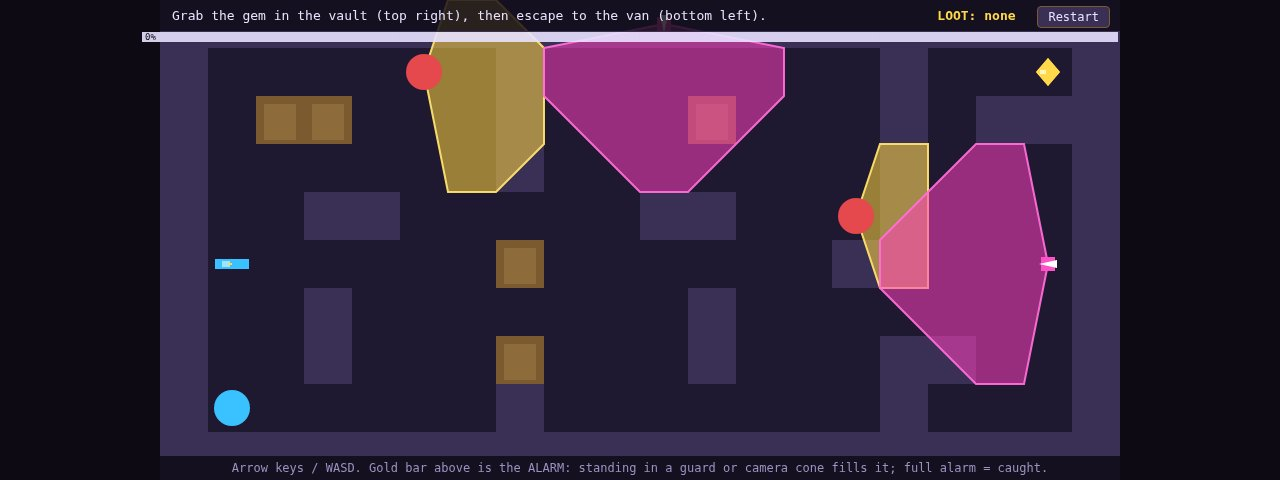
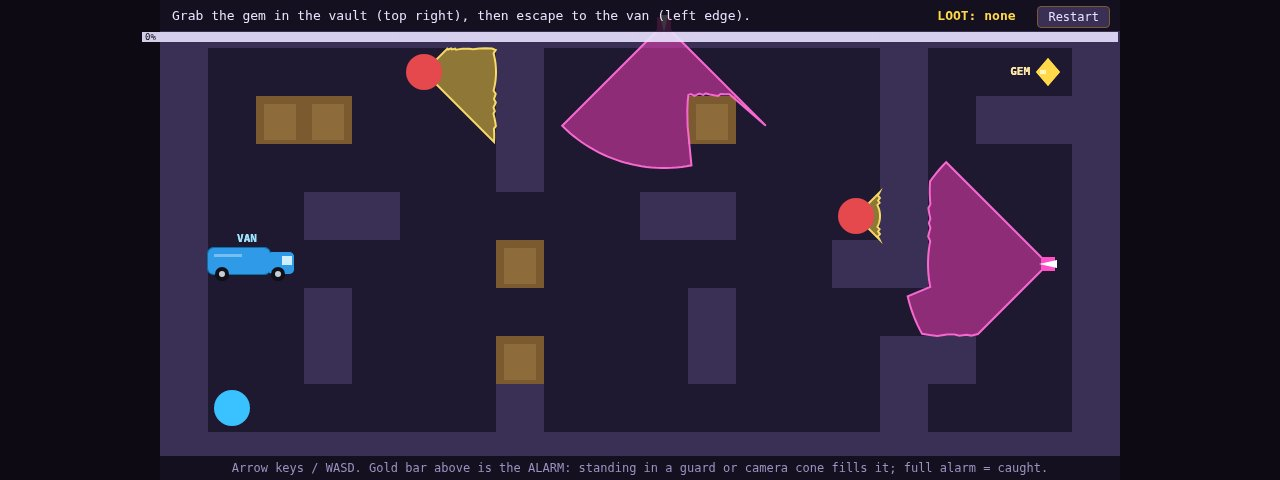
Heist entry: true raycast vision-cone sectors, van silhouette, gem pickup hides gem

diff --git a/game/game.js b/game/game.js
@@ -78,7 +78,7 @@ function reset(keepStatus) {
     guards[0].idx = 0; guards[0].dir = 'right';
     guards[1].x = guards[1].wx[0]; guards[1].y = guards[1].wy[0];
     guards[1].idx = 0; guards[1].dir = 'right';
-    if (!keepStatus) statusText = 'Grab the gem in the vault (top right), then escape to the van (bottom left).';
+    if (!keepStatus) statusText = 'Grab the gem in the vault (top right), then escape to the van (left edge).';
   }
   function init() { reset(false); buildTicks(); }
   function buildTicks() {
@@ -128,10 +128,10 @@ function reset(keepStatus) {
   function allCones() {
     var cones = [];
     for (var i = 0; i < guards.length; i++) {
-      cones.push({ kind: 'guard', x: guards[i].x, y: guards[i].y, tiles: coneOf(guards[i].x, guards[i].y, guards[i].dir) });
+      cones.push({ kind: 'guard', x: guards[i].x, y: guards[i].y, dir: guards[i].dir, tiles: coneOf(guards[i].x, guards[i].y, guards[i].dir) });
     }
     for (var j = 0; j < cams.length; j++) {
-      cones.push({ kind: 'camera', x: cams[j].x, y: cams[j].y, tiles: coneOf(cams[j].x, cams[j].y, camDir(cams[j])) });
+      cones.push({ kind: 'camera', x: cams[j].x, y: cams[j].y, dir: camDir(cams[j]), tiles: coneOf(cams[j].x, cams[j].y, camDir(cams[j])) });
     }
     return cones;
   }
@@ -179,9 +179,9 @@ function reset(keepStatus) {
       statusText = 'Heist complete.';
       lootEl.textContent = 'LOOT: GEM';
     } else if (player.hasGem) {
-      statusText = 'Gem taken! Now get to the van (blue, bottom left).';
+      statusText = 'Gem taken! Now get to the van (blue, left edge).';
     } else {
-statusText = 'Grab the gem in the vault (top right), then escape to the van (bottom left).';
+statusText = 'Grab the gem in the vault (top right), then escape to the van (left edge).';
     }
     draw();
   }
@@ -207,52 +207,45 @@ statusText = 'Grab the gem in the vault (top right), then escape to the van (bot
     return false;
   }
 
-  // Vision-cone fan: one bright polygon per watcher, built from the convex
-  // hull of its detection tiles plus the watcher centre (the fan vertex).
+  // Vision-cone fan: one true sector per watcher, built by raycasting.
+  // Each ray starts at the watcher centre, runs along the facing
+  // direction +/-45 degrees (90 degrees total, same as detection),
+  // and stops at the 3-tile detection radius or at the first wall /
+  // crate tile (blocksLOS). Ray endpoints joined in order give a
+  // sector whose outer edge is a natural arc (2-degree steps).
   // Detection logic (coneOf) is untouched; only the rendering changes.
-  function hullPoints(pts) {
-    var p = pts.slice();
-    p.sort(function (a, b) { return a.x !== b.x ? a.x - b.x : a.y - b.y; });
-    var uniq = [];
-    for (var i = 0; i < p.length; i++) {
-      if (i && p[i].x === p[i - 1].x && p[i].y === p[i - 1].y) continue;
-      uniq.push(p[i]);
+  function dirAngle(dir) {
+    if (dir === 'right') return 0;
+    if (dir === 'down') return Math.PI / 2;
+    if (dir === 'left') return Math.PI;
+    return -Math.PI / 2;
+  }
+  function rayEnd(cx, cy, ang, wx, wy) {
+    var R = 3 * TILE, STEP = 3;
+    var dx = Math.cos(ang), dy = Math.sin(ang);
+    var px = cx, py = cy, t;
+    for (t = STEP; t <= R; t += STEP) {
+      var nx = cx + dx * t, ny = cy + dy * t;
+      var tx = Math.floor(nx / TILE), ty = Math.floor(ny / TILE);
+      if (tx < 0 || ty < 0 || tx >= W || ty >= H) break;
+      if ((tx !== wx || ty !== wy) && blocksLOS(tx, ty)) break;
+      px = nx; py = ny;
     }
-    if (uniq.length < 3) return uniq;
-    function cross(o, a, b) { return (a.x - o.x) * (b.y - o.y) - (a.y - o.y) * (b.x - o.x); }
-    var lower = [];
-    for (var j = 0; j < uniq.length; j++) {
-      while (lower.length >= 2 && cross(lower[lower.length - 2], lower[lower.length - 1], uniq[j]) <= 0) lower.pop();
-      lower.push(uniq[j]);
-    }
-    var upper = [];
-    for (var k = uniq.length - 1; k >= 0; k--) {
-      while (upper.length >= 2 && cross(upper[upper.length - 2], upper[upper.length - 1], uniq[k]) <= 0) upper.pop();
-      upper.push(uniq[k]);
-    }
-    lower.pop();
-    upper.pop();
-    return lower.concat(upper);
+    return { x: px, y: py };
   }
   function drawConeFan(cn) {
-    var pts = [{ x: cn.x * TILE + TILE / 2, y: cn.y * TILE + TILE / 2 }];
-    for (var k in cn.tiles) {
-      if (!cn.tiles.hasOwnProperty(k)) continue;
-      var p = k.split(',');
-      var tx = parseInt(p[0], 10) * TILE, ty = parseInt(p[1], 10) * TILE;
-      pts.push({ x: tx, y: ty });
-      pts.push({ x: tx + TILE, y: ty });
-      pts.push({ x: tx, y: ty + TILE });
-      pts.push({ x: tx + TILE, y: ty + TILE });
-    }
-    var hull = hullPoints(pts);
-    if (hull.length < 3) return;
+    var cx = cn.x * TILE + TILE / 2, cy = cn.y * TILE + TILE / 2;
+    var base = dirAngle(cn.dir);
     var guard = cn.kind === 'guard';
     CX.beginPath();
-    CX.moveTo(hull[0].x, hull[0].y);
-    for (var i = 1; i < hull.length; i++) CX.lineTo(hull[i].x, hull[i].y);
+    CX.moveTo(cx, cy);
+    var a;
+    for (a = -45; a <= 45; a += 2) {
+      var p = rayEnd(cx, cy, base + a * Math.PI / 180, cn.x, cn.y);
+      CX.lineTo(p.x, p.y);
+    }
     CX.closePath();
-    CX.fillStyle = guard ? 'rgba(255,214,64,0.55)' : 'rgba(255,64,190,0.55)';
+    CX.fillStyle = guard ? 'rgba(255,214,64,0.5)' : 'rgba(255,64,190,0.5)';
     CX.fill();
     CX.lineWidth = 2;
     CX.strokeStyle = guard ? 'rgba(255,226,110,0.95)' : 'rgba(255,110,215,0.95)';
@@ -273,9 +266,8 @@ statusText = 'Grab the gem in the vault (top right), then escape to the van (bot
         else if (c === 'V') { drawVan(x, y); }
       }
     }
-    // cones: one bright fan polygon per watcher (watcher centre = vertex),
-    // built from the convex hull of its detection tiles. Detection logic
-    // (coneOf) is untouched; only the rendering changes.
+    // cones: one true raycast sector per watcher (watcher centre = vertex).
+    // Detection logic (coneOf) is untouched; only the rendering changes.
     var cones = allCones();
     for (var ci = 0; ci < cones.length; ci++) drawConeFan(cones[ci]);
     // draw gem & van again on top (above cones)
@@ -335,6 +327,9 @@ statusText = 'Grab the gem in the vault (top right), then escape to the van (bot
   }
 
   function drawGem(x, y) {
+    // Picked up: the vault stays empty (gem reappears on caught reset,
+    // when applyAlarm/reset clears player.hasGem).
+    if (player.hasGem) return;
     var cx0 = x * TILE + TILE / 2, cy0 = y * TILE + TILE / 2;
     CX.fillStyle = '#ffd94a';
     CX.beginPath();
@@ -346,18 +341,61 @@ statusText = 'Grab the gem in the vault (top right), then escape to the van (bot
     CX.fill();
     CX.fillStyle = '#fff3c0';
     CX.fillRect(cx0 - 8, cy0 - 2, 6, 4);
+    CX.font = 'bold 11px monospace';
+    CX.textAlign = 'right';
+    CX.textBaseline = 'middle';
+    CX.fillStyle = '#ffe9a8';
+    CX.fillText('GEM', cx0 - 18, cy0);
+  }
+  function roundRectPath(x, y, w, h, r) {
+    CX.beginPath();
+    CX.moveTo(x + r, y);
+    CX.lineTo(x + w - r, y);
+    CX.arcTo(x + w, y, x + w, y + r, r);
+    CX.lineTo(x + w, y + h - r);
+    CX.arcTo(x + w, y + h, x + w - r, y + h, r);
+    CX.lineTo(x + r, y + h);
+    CX.arcTo(x, y + h, x, y + h - r, r);
+    CX.lineTo(x, y + r);
+    CX.arcTo(x, y, x + r, y, r);
+    CX.closePath();
   }
   function drawVan(x, y) {
     var cx0 = x * TILE + TILE / 2, cy0 = y * TILE + TILE / 2;
-    CX.fillStyle = '#39c2ff';
-    CX.fillRect(cx0 - 17, cy0 - 5, 34, 10);
+    // Side-view van silhouette, about 2 tiles wide: cargo body + cab
+    // with windshield + two wheels. Blue body, drawn on top of cones.
+    var bx = cx0 - 24, by = cy0 - 16, bw = 62, bh = 26;
+    CX.fillStyle = '#0b6fa8';
+    roundRectPath(bx - 1, by - 1, bw + 2, bh + 2, 7);
+    CX.fill();
+    CX.fillStyle = '#2f9be8';
+    roundRectPath(bx, by, bw, bh, 6);
+    CX.fill();
+    // cab (front, right end) + windshield
+    CX.fillStyle = '#2f9be8';
+    roundRectPath(bx + bw - 2, by + 4, 26, bh - 4, 5);
+    CX.fill();
+    CX.fillStyle = '#cfeeff';
+    CX.fillRect(bx + bw + 12, by + 8, 10, 9);
+    // side stripe
+    CX.fillStyle = 'rgba(255,255,255,0.35)';
+    CX.fillRect(bx + 6, by + 6, bw - 34, 3);
+    // wheels
+    CX.fillStyle = '#101018';
+    CX.beginPath(); CX.arc(bx + 14, by + bh, 7, 0, Math.PI * 2); CX.fill();
+    CX.beginPath(); CX.arc(bx + bw + 8, by + bh, 7, 0, Math.PI * 2); CX.fill();
+    CX.fillStyle = '#c8ccd4';
+    CX.beginPath(); CX.arc(bx + 14, by + bh, 3, 0, Math.PI * 2); CX.fill();
+    CX.beginPath(); CX.arc(bx + bw + 8, by + bh, 3, 0, Math.PI * 2); CX.fill();
+    // label above the body
+    CX.font = 'bold 11px monospace';
+    CX.textAlign = 'center';
+    CX.textBaseline = 'middle';
     CX.fillStyle = '#9fe4ff';
-    CX.fillRect(cx0 - 10, cy0 - 3, 8, 6);
-    CX.fillStyle = '#ffd94a';
-    CX.fillRect(cx0 - 4, cy0 - 1, 4, 2);
+    CX.fillText('VAN', bx + bw / 2 + 8, by - 9);
   }
   function resetStatusText() {
-    statusText = 'Grab the gem in the vault (top right), then escape to the van (bottom left).';
+    statusText = 'Grab the gem in the vault (top right), then escape to the van (left edge).';
   }
 
   function move(dir) {
